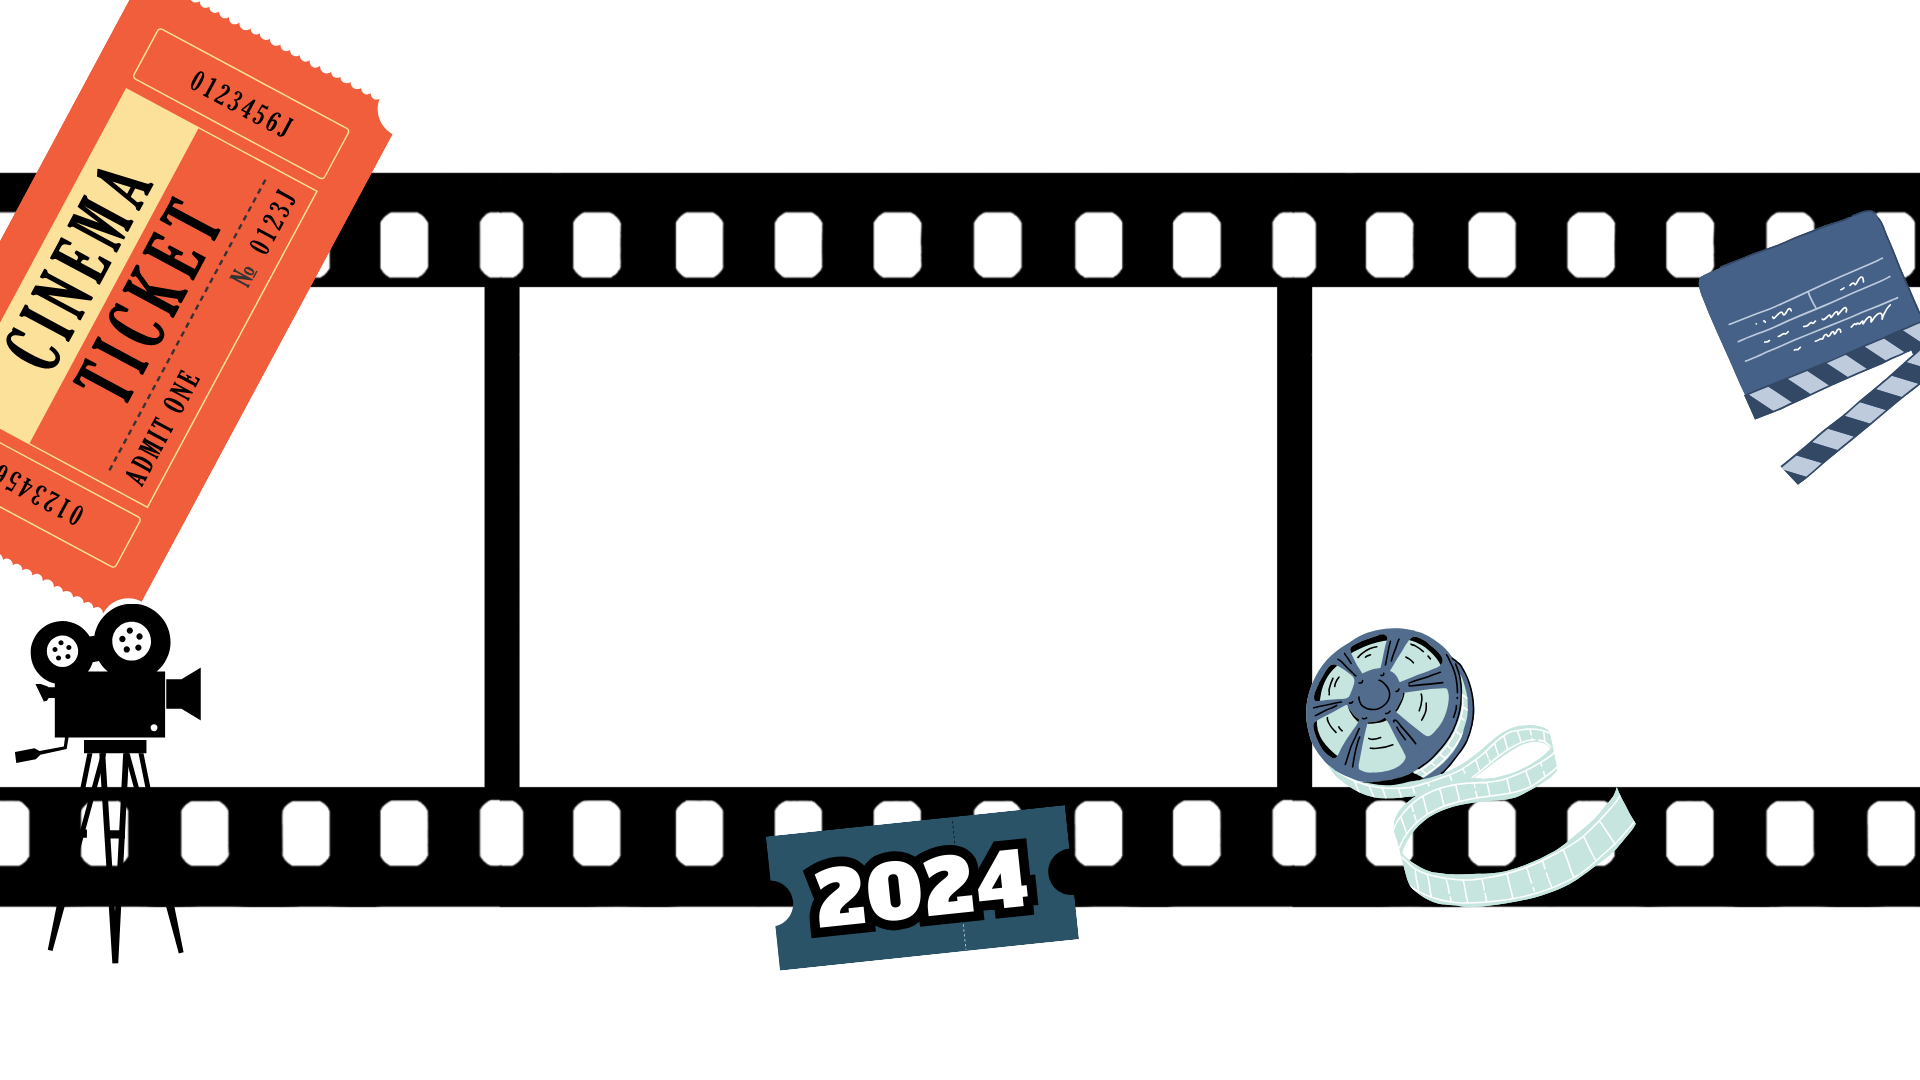
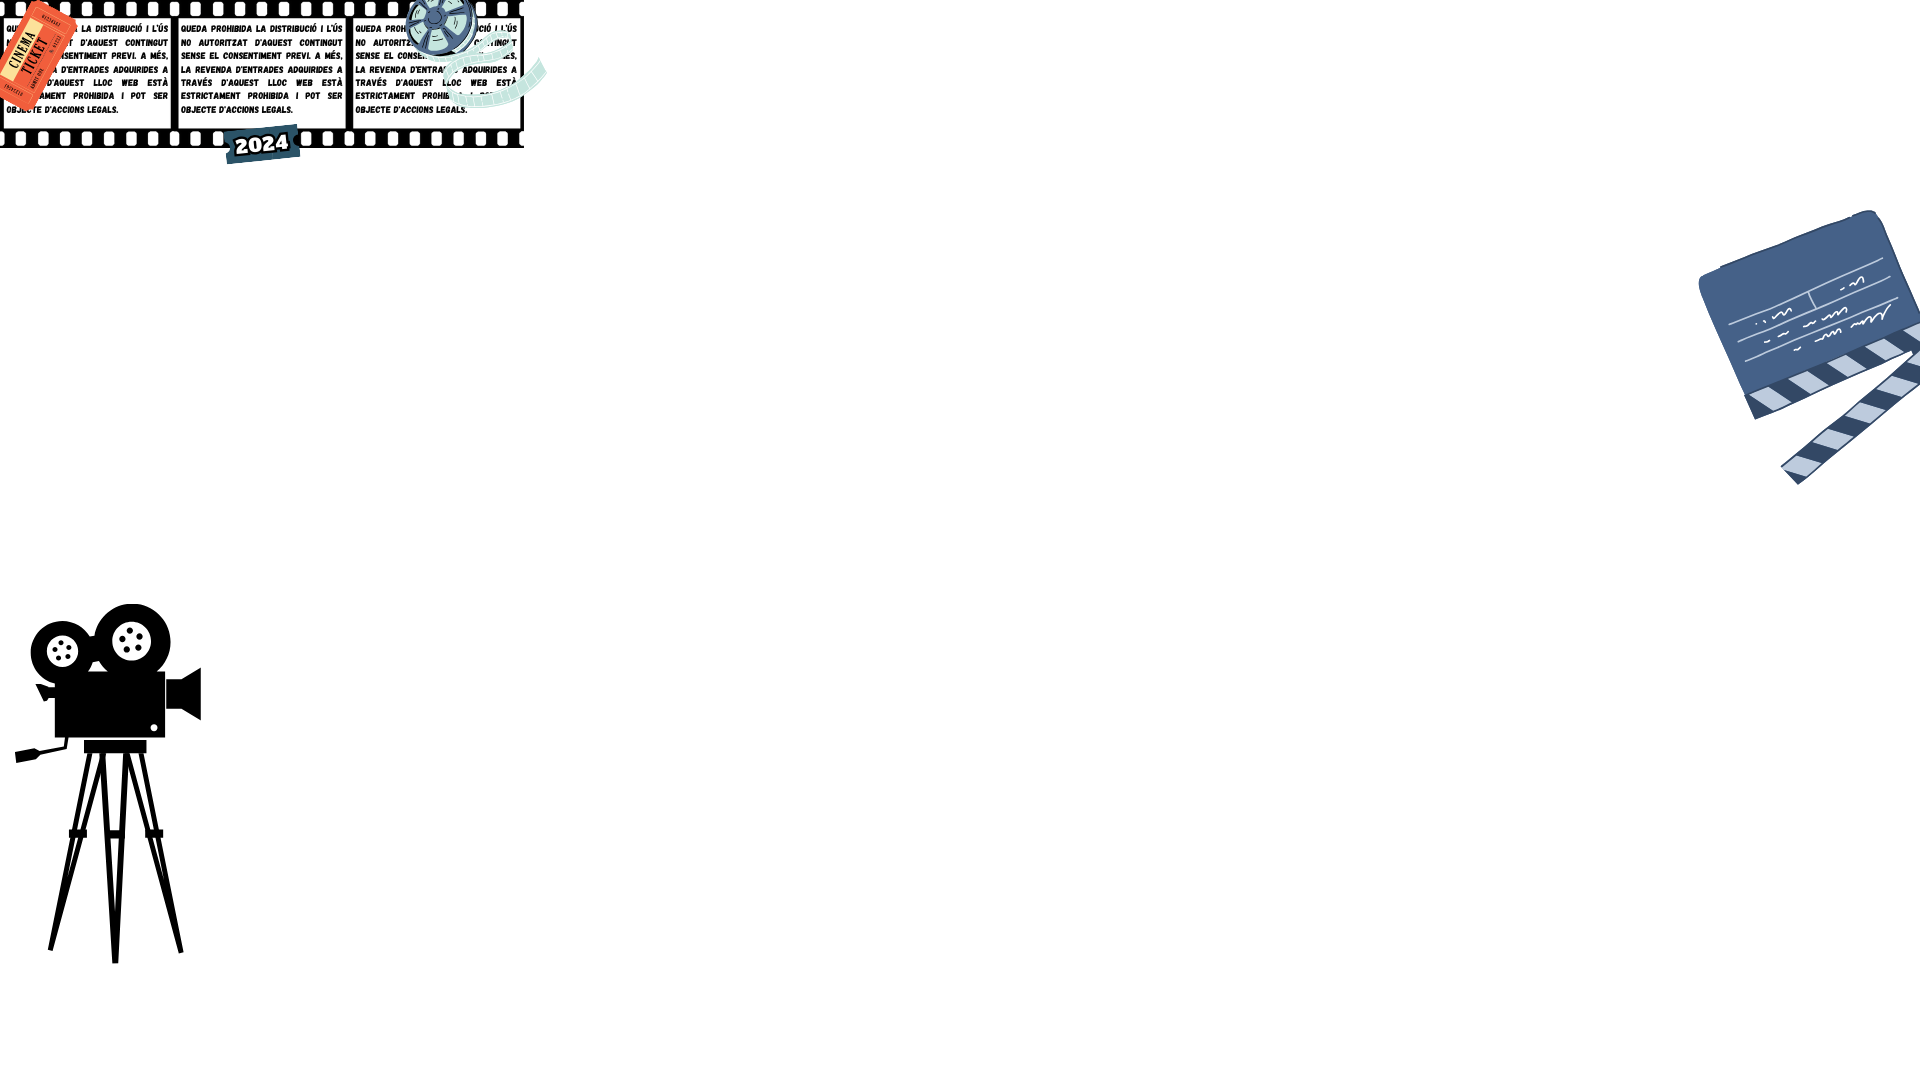
update

Changed region(s): [[0.0, 0.0, 1.0, 0.9167], [0.9688, 0.2444, 1.0, 0.275]]

diff --git a/src/app.py b/src/app.py
@@ -77,12 +77,12 @@ def homepage(session_state):
     # Custom HTML/CSS for the banner
     custom_html = """
     <div class="banner">
-        <img src="https://img.freepik.com/premium-photo/wide-banner-with-many-random-square-hexagons-charcoal-dark-black-color_105589-1820.jpg" alt="Banner Image">
+        <img src="https://raw.githubusercontent.com/alexrosado5/TR_cine/main/assets/Banner.png" alt="Banner Image">
     </div>
     <style>
         .banner {
             width: 160%;
-            height: 200px;
+            height: 400px;
             overflow: hidden;
         }
         .banner img {
@@ -117,13 +117,13 @@ def openheimer(session_state):
             occuped_chairs.append(chairs_opp[i])
 
     #Setup pagina oppenhimer
-    st.image("../assets/Oppenheimert.png", width=450)
+    st.image("../assets/Oppenheimert.png")
     st.write("*Hora de la sessió: 17:00h. Preu de l'entrada: 9€*")
     st.write("Escull el teu seient.")
     image3 = "../assets/Pantalla cine.png"
     st.write("")
     st.write("")
-    st.image(image3, width= 800)
+    st.image(image3, width=800)
     st.write("")
 
     col1, col2, col3, col4, col5, col6, col7, col8 = st.columns(8)
